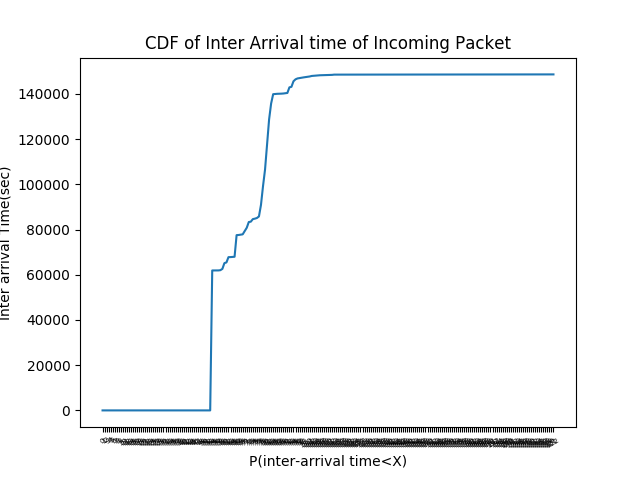
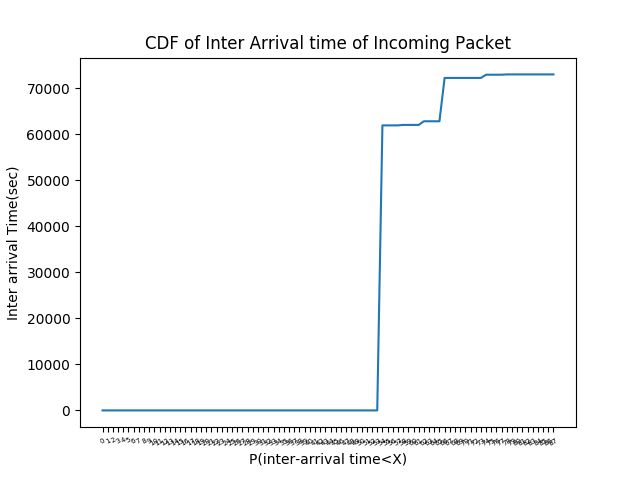
Question number 8 corrected

diff --git a/Plot.py b/Plot.py
@@ -384,11 +384,11 @@ if m == 7:
     print("------------------------------")
 
 if m == 8:
-    # # Question Number 8
-    # save = "Q8"+str(n)+"1.png"
-    # GLenIncoming(temp, save)
-    # print("------------------------------")
-    save = "Q8"+str(n)+"2.png"
-    GLenOutgoing(temp, save)
+    # Question Number 8
+    save = "Q8"+str(n)+"1.png"
+    GLenIncoming(temp, save)
     print("------------------------------")
+    # save = "Q8"+str(n)+"2.png"
+    # GLenOutgoing(temp, save)
+    # print("------------------------------")
 

diff --git a/csv_parser.py b/csv_parser.py
@@ -49,7 +49,7 @@ class fileReader:
         # l = [row if (row[3] in self.serverips) else continue for row in self.new_connection_time]
         siat=[] #server inter arrvial time
         op = [] # Outgoing packet
-        for row in self.rawdata:
+        for row in self.tcpdata:
             if row[3] in self.serverips:
                 siat.append(row)
             if row[2] in self.serverips:
